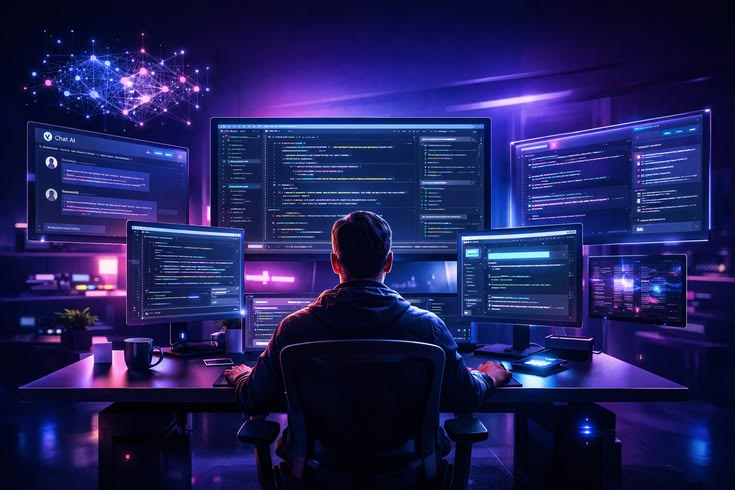
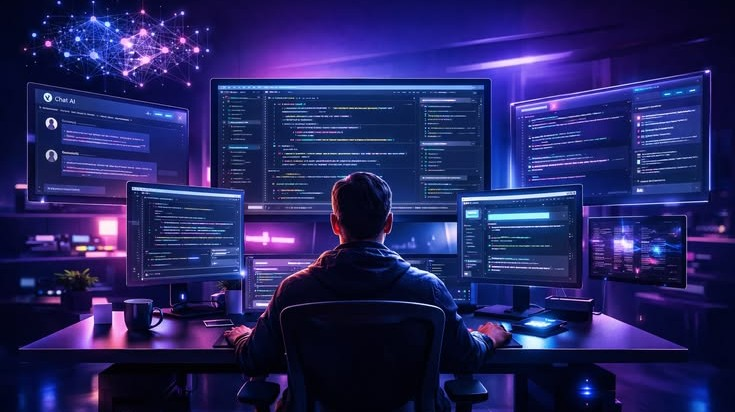
Add files via upload

diff --git a/css/style.css b/css/style.css
@@ -37,6 +37,7 @@ html {
 .jumbotron {
   background-color: rgba(0, 0, 0, 0.6);
   color: #fff;
+
 }
 
 .panel-default {
@@ -60,9 +61,15 @@ html {
 .carousel.slide {
   padding-top: 5%;
   padding-bottom: 5%;
-  display: flex;
-  justify-content: center;
   opacity: 0.8;
+  top: 0;
+  left: 0;
+  width: 100%;
+  height: 100%;
+}
+
+.carousel-inner {
+  min-height: 300px;
 }
 
 /* The actual timeline (the vertical ruler) */
@@ -88,11 +95,15 @@ html {
   position: relative;
   background-color: inherit;
   width: 50%;
-  ;
 }
 
 .container py-5 {
   border-radius: 5px;
+  position: relative;
+  width: 100%;
+  min-height: 500px;
+  /* Adjust this to your tallest slide */
+  overflow: hidden;
 }
 
 /* The circles on the timeline */

diff --git a/index.html b/index.html
@@ -90,13 +90,14 @@
     <!-- The slideshow/carousel -->
     <div class="carousel-inner">
       <div class="item active">
-        <img src="img/img1.jpg" alt="img1" class="center-block" style="width: 80%; height: 30%">
+        <img src="img/img1.jpg" alt="img1" class="center-block" style="width: 80%; height: auto;">
+      </div>
+
+      <div class=" item">
+        <img src="img/img2.jpg" alt="img2" class="center-block" style="width: 80%; height: auto;">
       </div>
       <div class="item">
-        <img src="img/img2.jpg" alt="img2" class="center-block" style="width: 80%; height: 30%">
-      </div>
-      <div class="item">
-        <img src="img/img3.jpg" alt="img3" class="center-block" style="width: 80%; height: 30%">
+        <img src="img/img3.jpg" alt="img3" class="center-block" style="width: 80%; height: auto;">
       </div>
     </div>
 